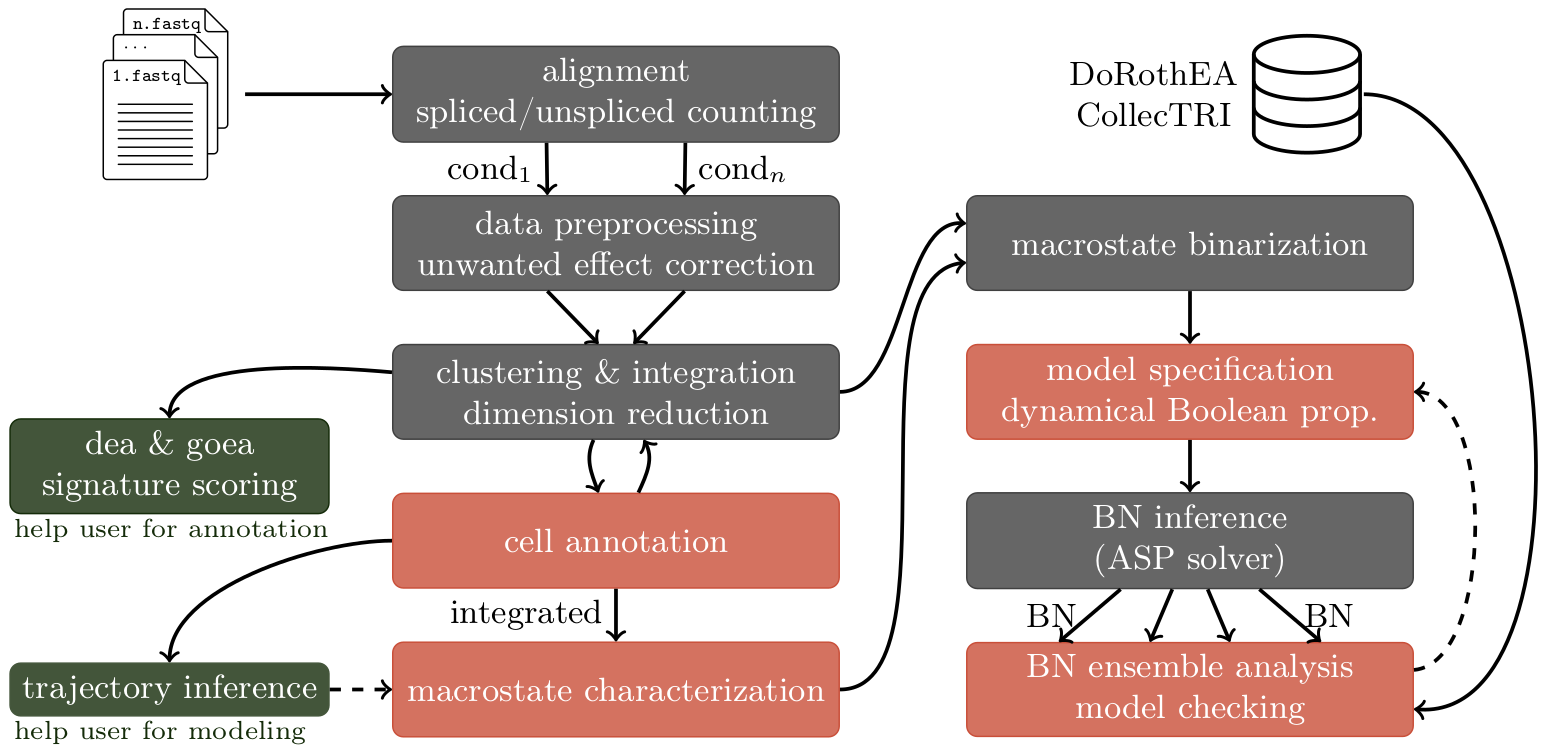
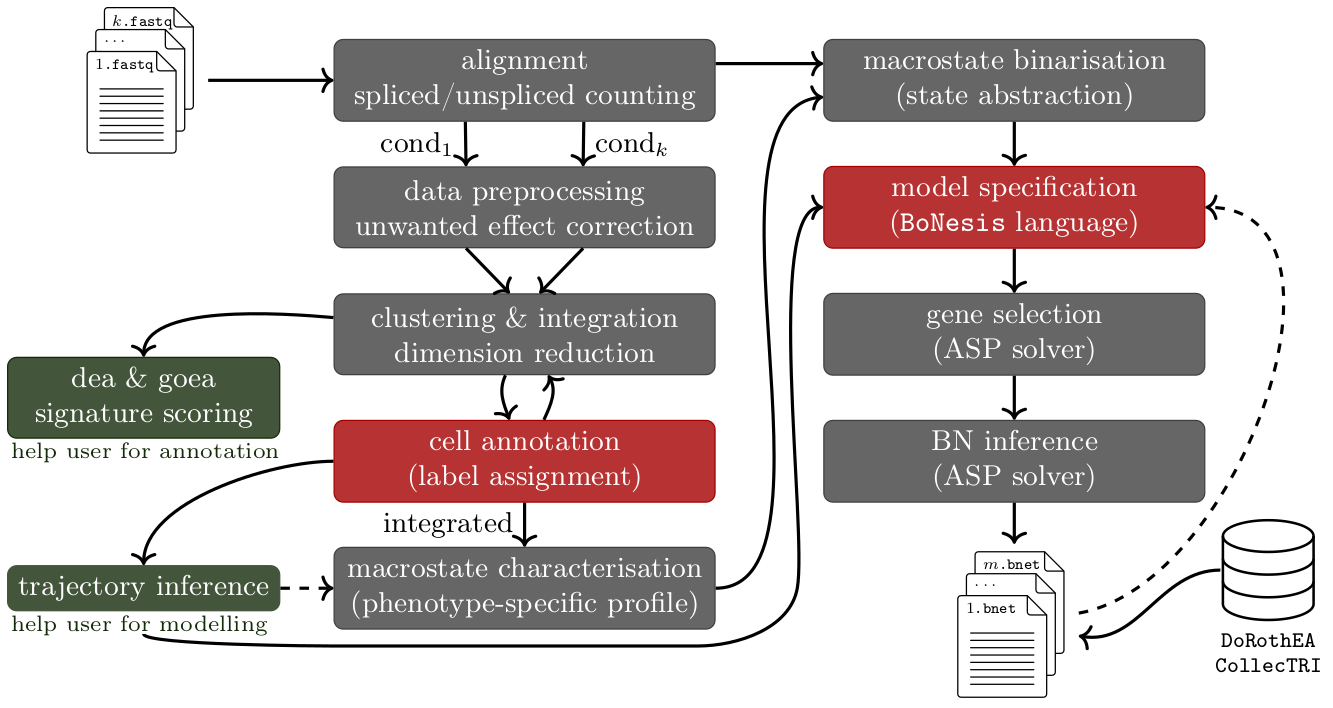
update README.md

diff --git a/README.md b/README.md
@@ -1,14 +1,9 @@
-# scBOLT
-
 [![Make](https://img.shields.io/badge/Make-%3E%3D4.3-red?style=flat)](https://www.gnu.org/software/make)
 
-Boolean network inference workflow for multi-condition single-cell transcriptomics.
+# Introduction
 
----
-
-## Introduction
-
-scBOLT (*Boolean network Reconstruction and Inference from multiple experimental Data in Gene Expression*) is a semi-automated workflow for reconstructing Boolean networks from scRNA-seq data.
+`scBOLT` (*BOolean network Learning from multi-condition Transcriptomes*) is a semi-automated workflow built upon the `BoNesis` engine,
+designed to infer an ensemble of sparsest BNs from multi-condition scRNA-seq data.
 
 The pipeline combines:
 
@@ -25,7 +20,7 @@ scBOLT aims to:
 
 ---
 
-## Workflow overview
+# Workflow overview
 
 scBOLT relies on the BoNesis framework, where Boolean network inference is constrained by:
 
@@ -56,9 +51,9 @@ Some stages are fully automated, whereas others intentionally require user inter
 
 ---
 
-## Installation
+# Installation
 
-### Prerequisites
+## Prerequisites
 
 Install the following dependencies:
 
@@ -94,11 +89,12 @@ cd scbolt
 bash config.sh
 ```
 
-Download the repeat masker annotation:
+Download the repeat masker annotation corresponding to your organism from the UCSC Table Browser:
 
-* [https://genome.ucsc.edu/cgi-bin/hgTables?hgsid=611454127_NtvlaW6xBSIRYJEBI0iRDEWisITa&clade=mammal&org=&db=mm39&hgta_group=allTracks&hgta_track=rmsk&hgta_table=rmsk&hgta_regionType=genome&position=&hgta_outputType=gff&hgta_outFileName=repeat_msk.gtf](https://genome.ucsc.edu/cgi-bin/hgTables?hgsid=611454127_NtvlaW6xBSIRYJEBI0iRDEWisITa&clade=mammal&org=&db=mm39&hgta_group=allTracks&hgta_track=rmsk&hgta_table=rmsk&hgta_regionType=genome&position=&hgta_outputType=gff&hgta_outFileName=repeat_msk.gtf)
+- [mouse (`mm39` / `GRCm39`)](https://genome.ucsc.edu/cgi-bin/hgTables?clade=mammal&org=Mouse&db=mm39&hgta_group=allTracks&hgta_track=rmsk&hgta_table=rmsk&hgta_regionType=genome&position=&hgta_outputType=gff)
+- [human (`hg38` / `GRCh38`)](https://genome.ucsc.edu/cgi-bin/hgTables?clade=mammal&org=Human&db=hg38&hgta_group=allTracks&hgta_track=rmsk&hgta_table=rmsk&hgta_regionType=genome&position=&hgta_outputType=gff)
 
-and move it to:
+and save it as:
 
 ```text
 public/transcriptome/repeat_msk.gtf
@@ -106,7 +102,7 @@ public/transcriptome/repeat_msk.gtf
 
 ---
 
-## Usage
+# Usage
 
 Display the pipeline summary:
 
@@ -136,19 +132,19 @@ make config
 Preview commands required to build a target without executing them:
 
 ```sh
-make dry-run TARGET=bn-sub
+make dry-run TARGET=<command>
 ```
 
 Validate Make-level dependencies and configuration for a target:
 
 ```sh
-make validate TARGET=bn-sub
+make validate TARGET=<command>
 ```
 
 Disable persistent logging:
 
 ```sh
-make LOGGING=false bn-sub
+make LOGGING=false <command>
 ```
 
 ---
@@ -163,22 +159,20 @@ man/
 
 ---
 
-## Bug reports
+# Bug reports
 
-Please report bugs or ask questions here:
-
-* [https://github.com/bnediction/bonesistools/issues](https://github.com/bnediction/bonesistools/issues)
+Please report any bugs or ask questions [here](https://github.com/bnediction/scbolt/issues) or contact contributors directly.
 
 ---
 
-## License
+# License
 
 No license currently.
 The project is intended for internal research use.
 
 ---
 
-## Contributors
+# Contributors
 
 * Théo Roncalli — [https://github.com/Theo-Roncalli](https://github.com/Theo-Roncalli)
 * Loïc Paulevé — [https://github.com/pauleve](https://github.com/pauleve)
